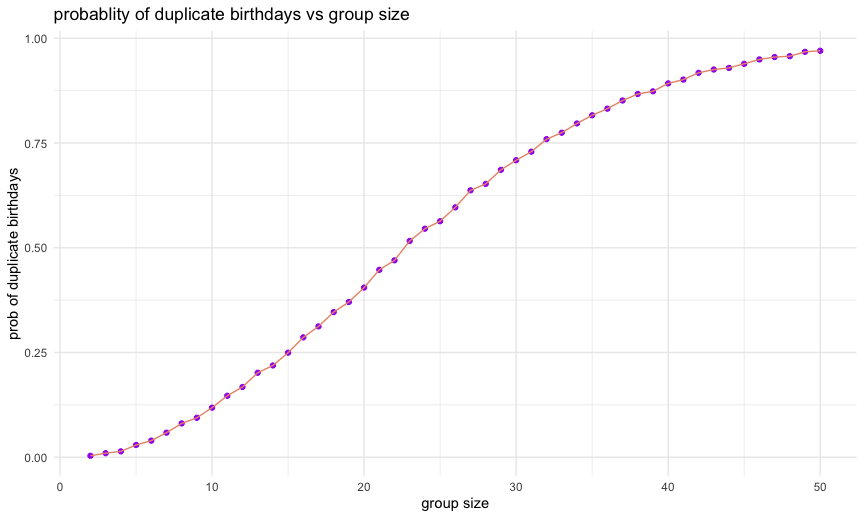
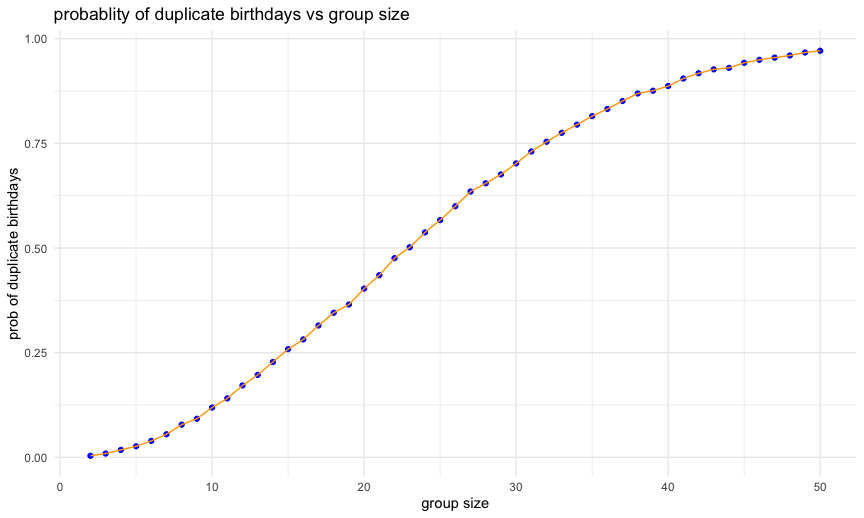
update colors

diff --git a/p8105_hw5_lk2776.md b/p8105_hw5_lk2776.md
@@ -63,8 +63,8 @@ sim_results_df_p1 =
 
 ``` r
 ggplot(sim_results_df_p1,aes(x = group_sizes, y = prob_dup)) + 
-       geom_point(color="purple") + 
-         geom_line(color="darksalmon") +
+       geom_point(color="blue") + 
+         geom_line(color="orange") +
   labs(
     title = "probablity of duplicate birthdays vs group size",
     x = "group size",
